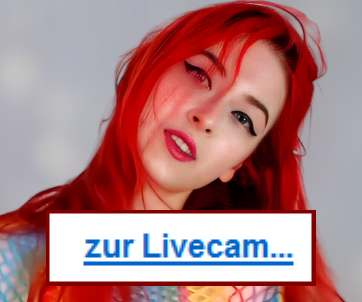
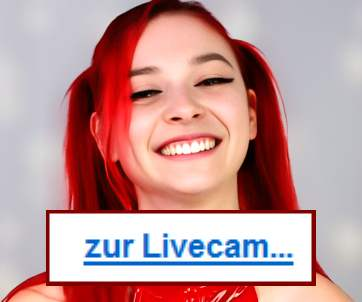
Commit to YOURCURRENTBRANCH

diff --git a/girls/hot_wet_lilly/_vti_cnf/index.htm b/girls/hot_wet_lilly/_vti_cnf/index.htm
@@ -1,11 +1,11 @@
 vti_encoding:SR|utf8-nl
 vti_author:SR|Office-PC\\Office
 vti_modifiedby:SR|Andreas-PC\\Andreas
-vti_timelastmodified:TR|30 Aug 2023 12:36:26 -0000
+vti_timelastmodified:TR|18 Dec 2023 09:43:38 -0000
 vti_timecreated:TR|03 Nov 2019 10:23:31 -0000
 vti_title:SR|Hot_Wet_Lilly ❤ - Fingerfertig bis ins letzte Loch
 vti_extenderversion:SR|12.0.0.0
-vti_nexttolasttimemodified:TW|30 Aug 2023 12:35:48 -0000
+vti_nexttolasttimemodified:TW|30 Aug 2023 12:36:26 -0000
 vti_syncofs_webcam-darstellerin.com\:21/webcam-darstellerin.com:TW|14 Nov 2019 10:40:54 -0000
 vti_syncwith_webcam-darstellerin.com\:21/webcam-darstellerin.com:TX|12 Nov 2019 11:52:58 -0000
 vti_syncofs_ftp.schmidtb.heliohost.org\:21:TW|14 Feb 2020 20:09:55 -0000
@@ -22,12 +22,12 @@ vti_syncofs_test.webcam-darstellerin.com\:21:TW|02 Nov 2020 14:25:24 -0000
 vti_syncwith_webcam-darstellerin.com\:21:TX|01 Aug 2021 12:33:37 -0000
 vti_syncofs_webcam-darstellerin.com\:21:TW|01 Aug 2021 12:42:13 -0000
 vti_backlinkinfo:VX|AAAltes\\ Zeug/bonnie/jungespaar2822-neu.htm girls/hotbella/index.htm AAAltes\\ Zeug/bonnie/jungespaar2822.htm girls/bonnie/jungespaar2822.htm girls/sastina/index.htm leitfaden/index.htm jugendschutz/index.htm AAAltes\\ Zeug/Rohdaten/vanessa_love/index-erotik.htm girls/veronika_rose/index.htm AAAltes\\ Zeug/bonnie/jungespaar2822_zu-neu.htm AAAltes\\ Zeug/girls/index.htm girls/yaraliebe/index.htm AAAltes\\ Zeug/girls/sastina/index.htm girls/vanessa_love/index.htm girls/deutsche-camgirls.htm girls/kimilee22/index.htm spielzeug/index.htm deutschecamgirls.htm girls/hot_wet_lilly/index.htm
-vti_cacheddtm:TX|30 Aug 2023 12:36:26 -0000
-vti_filesize:IR|14059
+vti_cacheddtm:TX|18 Dec 2023 09:43:38 -0000
+vti_filesize:IR|14062
 vti_cachedtitle:SR|Hot_Wet_Lilly ❤ - Fingerfertig bis ins letzte Loch
 vti_cachedbodystyle:SR|<body style="background-color: #FFD7D7; margin-left: 0; margin-right: 0; margin-top: 0;">
-vti_cachedlinkinfo:VX|H|/dateien-deutsche-camgirls/favicon.ico H|/dateien-deutsche-camgirls/apple-touch-icon.png H|/dateien-deutsche-camgirls/apple-touch-icon-57x57.png H|/dateien-deutsche-camgirls/apple-touch-icon-72x72.png H|/dateien-deutsche-camgirls/apple-touch-icon-76x76.png H|/dateien-deutsche-camgirls/apple-touch-icon-114x114.png H|/dateien-deutsche-camgirls/apple-touch-icon-120x120.png H|/dateien-deutsche-camgirls/apple-touch-icon-144x144.png H|/dateien-deutsche-camgirls/apple-touch-icon-152x152.png H|/dateien-deutsche-camgirls/apple-touch-icon-180x180.png H|../../index.htm S|../../dateien-deutsche-camgirls/banner.jpg S|hot_wet_lilly.gif K|index.htm S|hot_wet_lilly.jpg K|index.htm -S|https://de.chaturbate.com/fullvideo/ -H|https://chaturbate.com/in/ -S|../zur-livecam.gif -K|camgirl-chaturbate.htm I|../../dateien-deutsche-camgirls/de/hot_wet_lilly/camgirl-chaturbate.htm H|https://www.instagram.com/sugarengelchen K|index.htm S|hot_wet_lilly.webp K|index.htm H|https://onlyfans.com/hot_wet_lilly H|../hot_wet_lilly/index.htm H|../hotbella/index.htm H|../bonnie/jungespaar2822.htm H|../kimilee22/index.htm H|../sastina/index.htm H|../vanessa_love/index.htm H|../veronika_rose/index.htm H|../yaraliebe/index.htm H|../../deutschecamgirls.htm S|../../impressum.gif -H|../../impressum/index.htm -H|../../index.htm -S|../../deutsche-camgirls.gif -S|https://sichere-verbindung.webcam-darstellerin.com/mghb I|../../footer.htm
-vti_cachedsvcrellinks:VX|NHUS|/dateien-deutsche-camgirls/favicon.ico NHUS|/dateien-deutsche-camgirls/apple-touch-icon.png NHUS|/dateien-deutsche-camgirls/apple-touch-icon-57x57.png NHUS|/dateien-deutsche-camgirls/apple-touch-icon-72x72.png NHUS|/dateien-deutsche-camgirls/apple-touch-icon-76x76.png NHUS|/dateien-deutsche-camgirls/apple-touch-icon-114x114.png NHUS|/dateien-deutsche-camgirls/apple-touch-icon-120x120.png NHUS|/dateien-deutsche-camgirls/apple-touch-icon-144x144.png NHUS|/dateien-deutsche-camgirls/apple-touch-icon-152x152.png NHUS|/dateien-deutsche-camgirls/apple-touch-icon-180x180.png FHUS|index.htm FSUS|dateien-deutsche-camgirls/banner.jpg FSUS|girls/hot_wet_lilly/hot_wet_lilly.gif FKUS|girls/hot_wet_lilly/index.htm FSUS|girls/hot_wet_lilly/hot_wet_lilly.jpg FKUS|girls/hot_wet_lilly/index.htm FIUS|dateien-deutsche-camgirls/de/hot_wet_lilly/camgirl-chaturbate.htm NHSS|https://www.instagram.com/sugarengelchen FKUS|girls/hot_wet_lilly/index.htm FSUS|girls/hot_wet_lilly/hot_wet_lilly.webp FKUS|girls/hot_wet_lilly/index.htm NHSS|https://onlyfans.com/hot_wet_lilly FHUS|girls/hot_wet_lilly/index.htm FHUS|girls/hotbella/index.htm FHUS|girls/bonnie/jungespaar2822.htm FHUS|girls/kimilee22/index.htm FHUS|girls/sastina/index.htm FHUS|girls/vanessa_love/index.htm FHUS|girls/veronika_rose/index.htm FHUS|girls/yaraliebe/index.htm FHUS|deutschecamgirls.htm FSUS|impressum.gif FIUS|footer.htm
+vti_cachedlinkinfo:VX|H|/dateien-deutsche-camgirls/favicon.ico H|/dateien-deutsche-camgirls/apple-touch-icon.png H|/dateien-deutsche-camgirls/apple-touch-icon-57x57.png H|/dateien-deutsche-camgirls/apple-touch-icon-72x72.png H|/dateien-deutsche-camgirls/apple-touch-icon-76x76.png H|/dateien-deutsche-camgirls/apple-touch-icon-114x114.png H|/dateien-deutsche-camgirls/apple-touch-icon-120x120.png H|/dateien-deutsche-camgirls/apple-touch-icon-144x144.png H|/dateien-deutsche-camgirls/apple-touch-icon-152x152.png H|/dateien-deutsche-camgirls/apple-touch-icon-180x180.png H|../../index.htm S|../../dateien-deutsche-camgirls/banner.jpg S|hot_wet_lilly.gif K|index.htm S|hot_wet_lilly-02.jpg K|index.htm -S|https://de.chaturbate.com/fullvideo/ -H|https://chaturbate.com/in/ -S|../zur-livecam.gif -K|camgirl-chaturbate.htm I|../../dateien-deutsche-camgirls/de/hot_wet_lilly/camgirl-chaturbate.htm H|https://www.instagram.com/sugarengelchen K|index.htm S|hot_wet_lilly.webp K|index.htm H|https://onlyfans.com/hot_wet_lilly H|../hot_wet_lilly/index.htm H|../hotbella/index.htm H|../bonnie/jungespaar2822.htm H|../kimilee22/index.htm H|../sastina/index.htm H|../vanessa_love/index.htm H|../veronika_rose/index.htm H|../yaraliebe/index.htm H|../../deutschecamgirls.htm S|../../impressum.gif -H|../../impressum/index.htm -H|../../index.htm -S|../../deutsche-camgirls.gif -S|https://sichere-verbindung.webcam-darstellerin.com/mghb I|../../footer.htm
+vti_cachedsvcrellinks:VX|NHUS|/dateien-deutsche-camgirls/favicon.ico NHUS|/dateien-deutsche-camgirls/apple-touch-icon.png NHUS|/dateien-deutsche-camgirls/apple-touch-icon-57x57.png NHUS|/dateien-deutsche-camgirls/apple-touch-icon-72x72.png NHUS|/dateien-deutsche-camgirls/apple-touch-icon-76x76.png NHUS|/dateien-deutsche-camgirls/apple-touch-icon-114x114.png NHUS|/dateien-deutsche-camgirls/apple-touch-icon-120x120.png NHUS|/dateien-deutsche-camgirls/apple-touch-icon-144x144.png NHUS|/dateien-deutsche-camgirls/apple-touch-icon-152x152.png NHUS|/dateien-deutsche-camgirls/apple-touch-icon-180x180.png FHUS|index.htm FSUS|dateien-deutsche-camgirls/banner.jpg FSUS|girls/hot_wet_lilly/hot_wet_lilly.gif FKUS|girls/hot_wet_lilly/index.htm FSUS|girls/hot_wet_lilly/hot_wet_lilly-02.jpg FKUS|girls/hot_wet_lilly/index.htm FIUS|dateien-deutsche-camgirls/de/hot_wet_lilly/camgirl-chaturbate.htm NHSS|https://www.instagram.com/sugarengelchen FKUS|girls/hot_wet_lilly/index.htm FSUS|girls/hot_wet_lilly/hot_wet_lilly.webp FKUS|girls/hot_wet_lilly/index.htm NHSS|https://onlyfans.com/hot_wet_lilly FHUS|girls/hot_wet_lilly/index.htm FHUS|girls/hotbella/index.htm FHUS|girls/bonnie/jungespaar2822.htm FHUS|girls/kimilee22/index.htm FHUS|girls/sastina/index.htm FHUS|girls/vanessa_love/index.htm FHUS|girls/veronika_rose/index.htm FHUS|girls/yaraliebe/index.htm FHUS|deutschecamgirls.htm FSUS|impressum.gif FIUS|footer.htm
 vti_cachedneedsrewrite:BR|true
 vti_cachedhasbots:BR|true
 vti_cachedhastheme:BR|false

diff --git a/girls/hot_wet_lilly/index.htm b/girls/hot_wet_lilly/index.htm
@@ -158,7 +158,7 @@ a {
 	<map id="ImgMap1" name="ImgMap1">
 		<area alt="" coords="81, 333, 263, 350" href="#Hot_Wet_Lilly auf Instagram und Twitter" shape="rect" target="_self" title="Hot_Wet_Lillys Social Medias">
 	</map>
-	<img alt="Hot_Wet_Lilly ist fingerfertig bis ins letzte Loch" title="das deutsche Camgirl Hot_Wet_Lilly" class="auto-style105" height="351" src="hot_wet_lilly.jpg" style="float: right" width="264" usemap="#ImgMap1">Das 
+	<img alt="Hot_Wet_Lilly ist fingerfertig bis ins letzte Loch" title="das deutsche Camgirl Hot_Wet_Lilly" class="auto-style105" height="351" src="hot_wet_lilly-02.jpg" style="float: right" width="264" usemap="#ImgMap1">Das 
 	deutsche Camgirl <strong>Hot_Wet_Lilly</strong> ist gut gebaut und 
 	ungeniert. Lillys feuerrote Mähne steht im Kontrast zur vornehmen Blässe 
 	ihres Leibes, welcher keinerlei Problemzonen erkennen lässt. Das Motto der 
